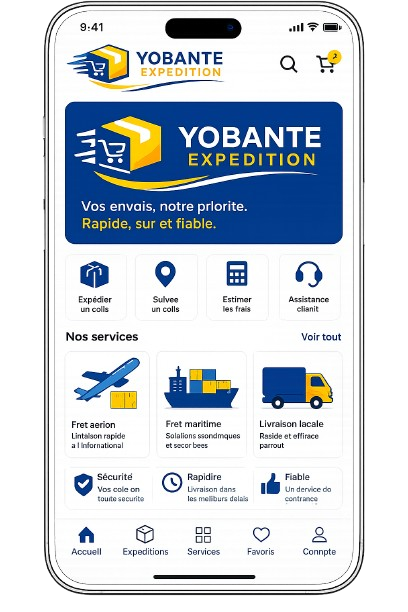
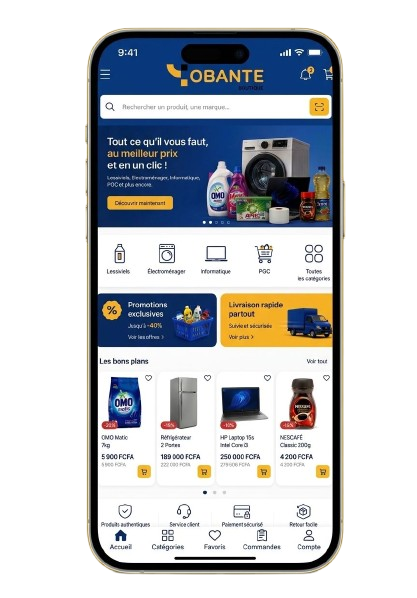
Last Version

diff --git a/src/components/sections/Contact.jsx b/src/components/sections/Contact.jsx
@@ -75,7 +75,7 @@ const Contact = () => {
                 <div className="contact-icon"><Mail size={22} strokeWidth={1.5} color="#1e3a8a" /></div>
                 <div className="contact-text">
                   <strong>Email</strong>
-                  <a href="mailto:[email redacted]">[email redacted]</a>
+                  <a href="mailto:[email redacted]">[email redacted]</a>
                 </div>
               </div>
 